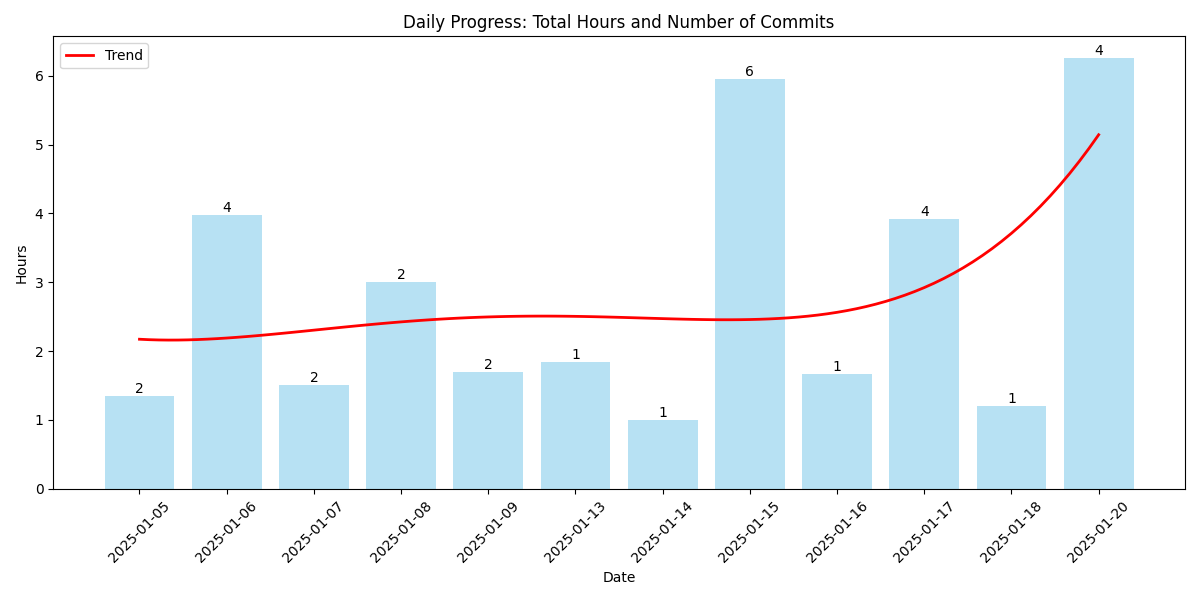
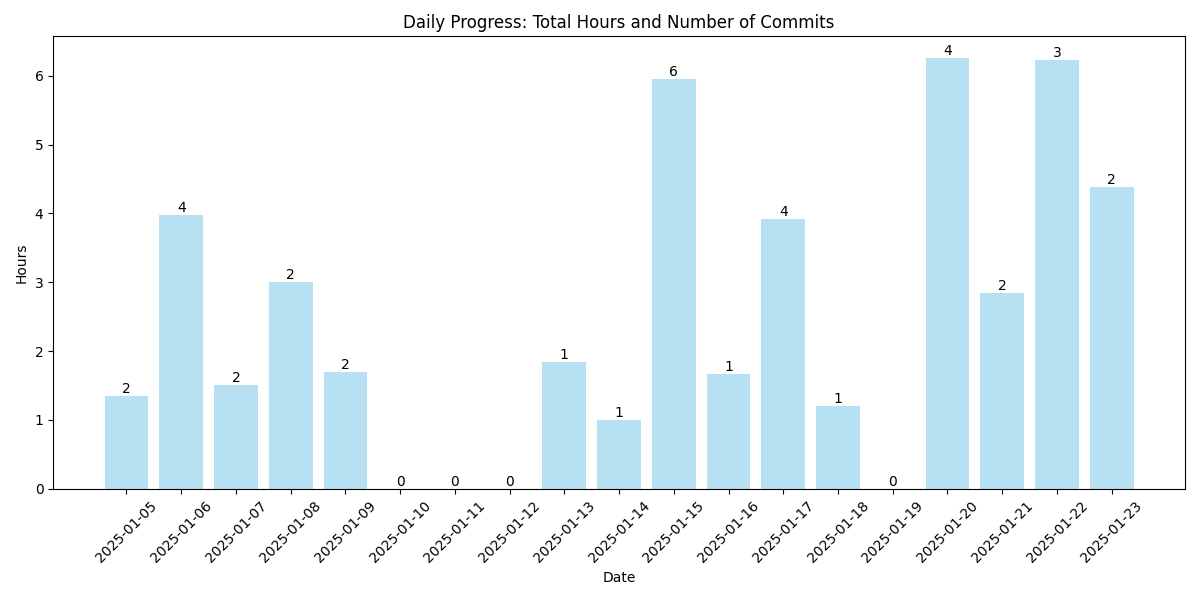
modified graph

Changed region(s): [[0.0617, 0.09, 0.9558, 0.93], [0.0617, 0.06, 0.1233, 0.12]]

diff --git a/generate_csv.py b/generate_csv.py
@@ -5,6 +5,7 @@ from collections import defaultdict
 
 import matplotlib.pyplot as plt
 import numpy as np
+import pandas as pd
 
 # Run the git log command
 result = subprocess.run(
@@ -39,6 +40,7 @@ for line in logs:
 data = []
 dates = []
 total_hours = []
+commit_counts = []
 
 for date in sorted(first):  # Ensure chronological order
     if first[date] is not None and last[date] is not None:
@@ -46,6 +48,25 @@ for date in sorted(first):  # Ensure chronological order
         data.append([date, commits[date], total, first[date], last[date]])
         dates.append(date)
         total_hours.append(total)
+        commit_counts.append(commits[date])
+
+# Create complete date range
+date_range = pd.date_range(start=min(dates), end=max(dates))
+full_df = pd.DataFrame({'date': date_range})
+
+# Convert dates to string format matching original data
+full_df['date'] = full_df['date'].dt.strftime('%Y-%m-%d')
+
+# Create DataFrame from existing data
+data_df = pd.DataFrame({
+    'date': dates,
+    'hours': total_hours,
+    'commits': commit_counts
+})
+
+# Merge to include all dates
+merged_df = full_df.merge(data_df, on='date', how='left')
+merged_df = merged_df.fillna({'hours': 0, 'commits': 0})
 
 # Write results to a CSV file
 with open('git_log_summary.csv', 'w', newline='') as csvfile:
@@ -61,35 +82,20 @@ print("CSV file 'git_log_summary.csv' has been created.")
 
 # Plot the data
 fig, ax = plt.subplots(figsize=(12, 6))
-
-# Create bars for total hours
-bars = ax.bar(dates, total_hours, color='skyblue', alpha=0.6)
+bars = ax.bar(merged_df['date'], merged_df['hours'], color='skyblue', alpha=0.6)
 
 # Add commit numbers on top of bars
-for i, (bar, commit_count) in enumerate(zip(bars, [commits[date] for date in dates])):
+for bar, commit_count in zip(bars, merged_df['commits']):
     height = bar.get_height()
     ax.text(bar.get_x() + bar.get_width()/2, height,
-            f'{commit_count}',
+            f'{int(commit_count)}',
             ha='center', va='bottom')
 
-# Calculate and plot polynomial regression
-x = np.arange(len(dates))
-coeffs = np.polyfit(x, total_hours, 4)
-poly = np.poly1d(coeffs)
-
-# Create smooth curve
-x_smooth = np.linspace(0, len(dates)-1, 100)
-y_smooth = poly(x_smooth)
-
-# Plot regression line
-ax.plot(x_smooth, y_smooth, color='red', linewidth=2, label='Trend')
-
 # Customize the plot
-plt.xticks(range(len(dates)), dates, rotation=45)
+plt.xticks(range(len(merged_df['date'])), merged_df['date'], rotation=45)
 plt.xlabel('Date')
 plt.ylabel('Hours')
 plt.title('Daily Progress: Total Hours and Number of Commits')
-plt.legend()
 plt.tight_layout()
 
 # Save the plot
